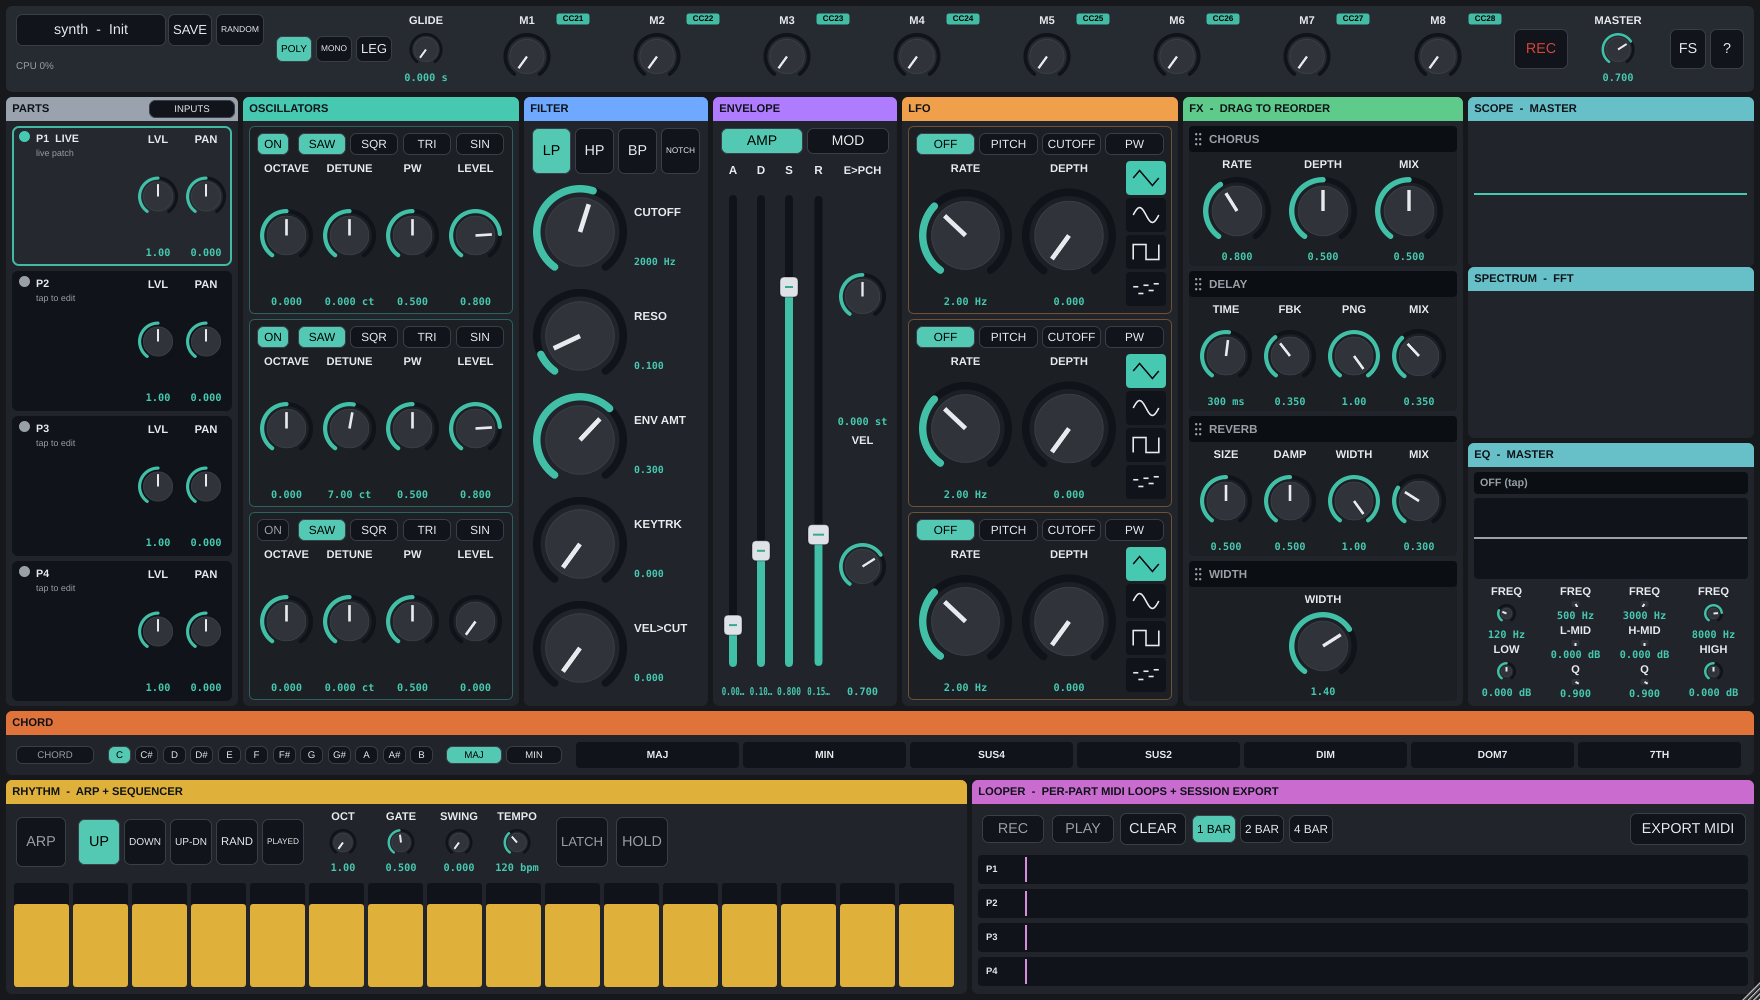
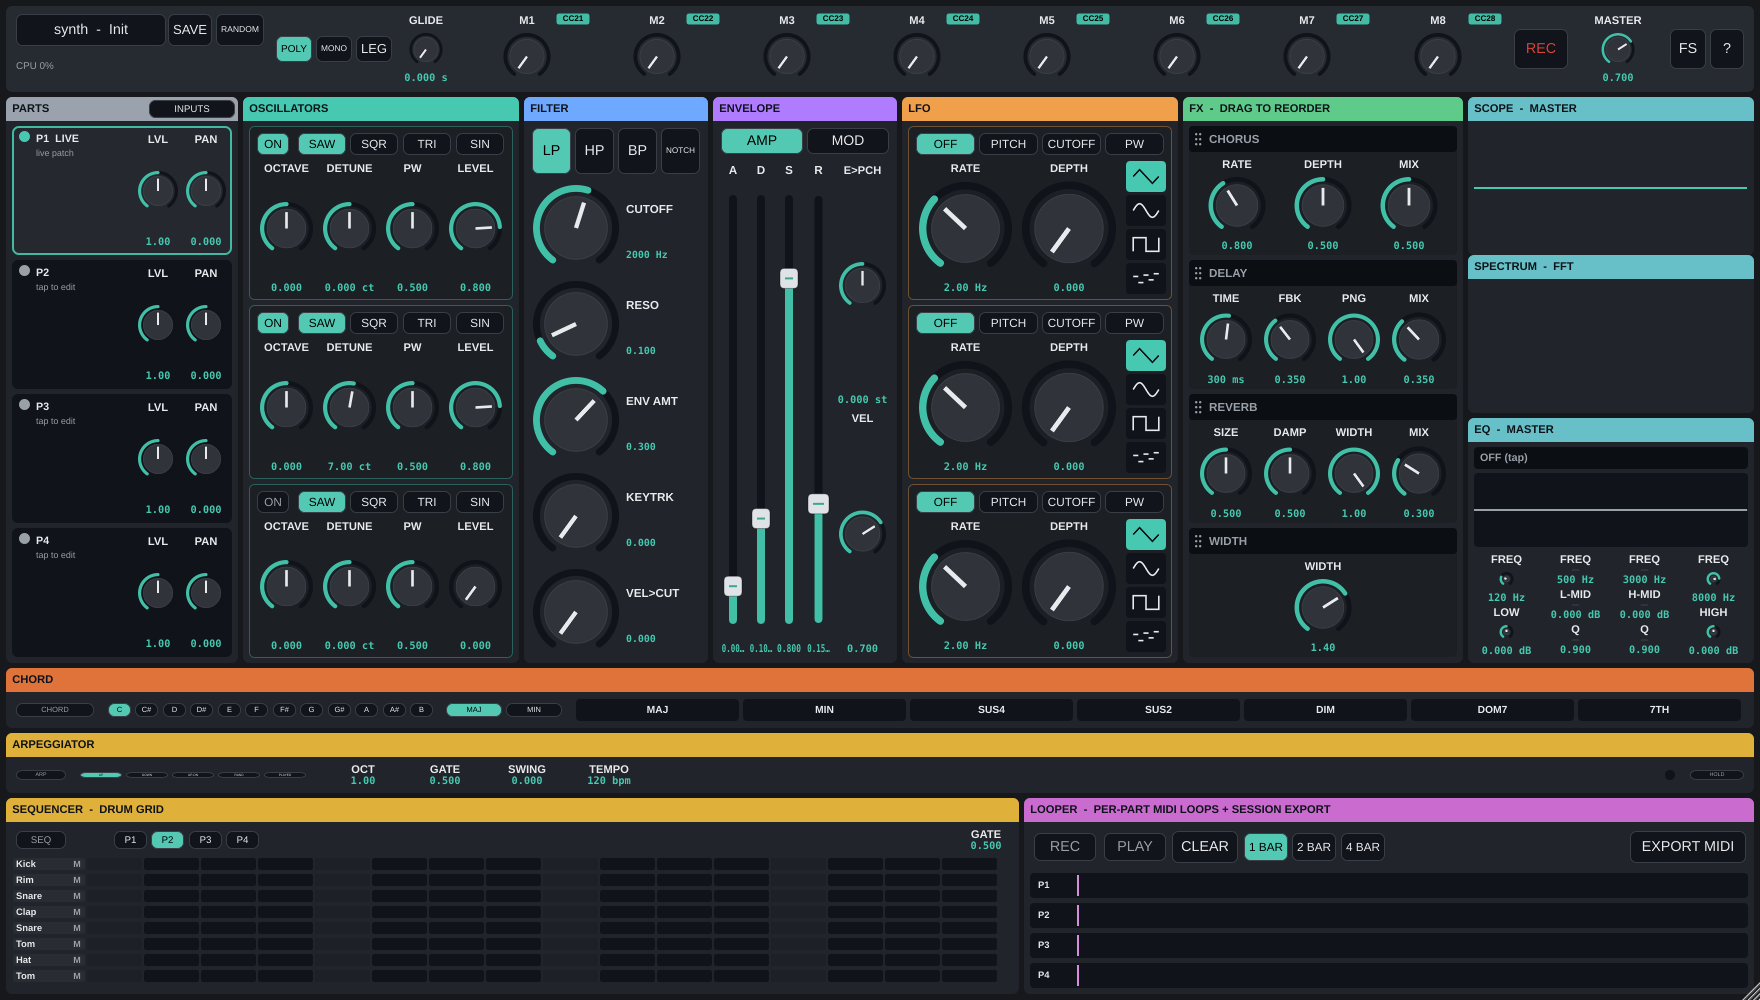
R3 Group 2 (UI): compact ARP bar + 8-row step-sequencer grid + layout
Completes Group 2: the sequencer core (4454964) now has its front panel, and
the bottom workstation matches the signed-off demo — CHORD, a compact ARP bar,
then the SEQUENCER (left) beside the LOOPER (right).

- New Source/UI/SeqPanel.h: 8-row x 16-step drum grid bound to the processor's
  seq state. Per row: a tap-to-pick trigger note (GM drum names) + a mute; per
  step a tap/drag cycle off -> on -> ACCENT; header carries SEQ on/off, the
  target part (P1-P4) and gate. Playhead column tracks the running step. Refuses
  keyboard focus like every panel.
- BottomZones: RhythmPanel (the old 16-step arp grid) becomes a compact ArpBar —
  ARP toggle, mode, OCT/GATE/SWING/TEMPO on the shared clock, a beat dot, and a
  single HOLD (LATCH was merged into HOLD in Group 2; the step grid moved to the
  SEQ). Layout reworked to CHORD -> ArpBar -> [SeqPanel | LooperPanel]; the band
  grows ~43px and the centre synth section flows shorter to fit (2.3).
- arpSteps/arpLatch params kept for state round-trip; the UI just no longer
  exposes them. No note-path change: the SEQ engine + its dense-8-row click
  torture already landed in 4454964.

Gate: run-all-checks 252/252 + pluginval s8 green; --sanitize ASan+UBSan soak
clean (UBSan RSS growth 0%). docs/editor.png regenerated.

diff --git a/Source/UI/BottomZones.h b/Source/UI/BottomZones.h
@@ -3,15 +3,17 @@
 #include "VASynthLookAndFeel.h"
 #include "PanelChrome.h"
 #include "Widgets.h"
+#include "SeqPanel.h"
 #include "../PluginProcessor.h"
 #include "../DSP/ChordEngine.h"
 
 // ============================================================================
-// Bottom workstation: a horizontal CHORD bar (enable / root / scale + the seven
-// momentary, MIDI-learnable modifier chips) and two collapsible zones — RHYTHM
-// (arp + sequencer) and LOOPER (per-part MIDI loops + export). The rhythm/looper
-// ENGINES arrive in R3; here they are collapsed-by-default placeholders that
-// expand to preview their planned home. Refuses keyboard focus.
+// Bottom workstation (R3 Group 2 layout): a horizontal CHORD bar (enable / root /
+// scale + the seven momentary, MIDI-learnable modifier chips), a compact ARP bar
+// (toggle / mode / OCT-GATE-SWING-TEMPO / HOLD, sharing the one transport clock),
+// and, below, the 8-row step SEQUENCER (left) beside the per-part LOOPER (right).
+// The arp and sequencer are decoupled: the arp reorders held notes; the sequencer
+// runs its own drum grid into a selectable part. Refuses keyboard focus.
 // ============================================================================
 
 // ---- horizontal chord bar --------------------------------------------------
@@ -117,12 +119,15 @@ private:
     JUCE_DECLARE_NON_COPYABLE_WITH_LEAK_DETECTOR (ChordBar)
 };
 
-// ---- RHYTHM: functional arpeggiator + editable 16-step sequencer ------------
-class RhythmPanel : public juce::Component,
-                    private juce::Timer
+// ---- ARP: compact arpeggiator bar (decoupled from the step sequencer) -------
+// One row of controls; no step grid (the arp reorders held notes, it doesn't paint a
+// pattern). HOLD is the single latch source (LATCH was merged into HOLD in Group 2).
+// OCT/GATE/SWING/TEMPO drive the shared transport clock the sequencer also rides.
+class ArpBar : public juce::Component,
+               private juce::Timer
 {
 public:
-    explicit RhythmPanel (VASynthProcessor& p) : proc (p)
+    explicit ArpBar (VASynthProcessor& p) : proc (p)
     {
         setWantsKeyboardFocus (false);
         arpOn = std::make_unique<PowerToggle> (p.apvts, ParamID::arpOn, "ARP");
@@ -132,78 +137,51 @@ public:
         gate  = std::make_unique<RotaryKnob> (p.apvts, ParamID::arpGate,    "GATE",  p.getMidiLearn());
         swing = std::make_unique<RotaryKnob> (p.apvts, ParamID::arpSwing,   "SWING", p.getMidiLearn());
         tempo = std::make_unique<RotaryKnob> (p.apvts, ParamID::tempo,      "TEMPO", p.getMidiLearn());
-        latch = std::make_unique<PowerToggle> (p.apvts, ParamID::arpLatch, "LATCH");
         hold  = std::make_unique<PowerToggle> (p.apvts, ParamID::arpHold,  "HOLD");
         addAndMakeVisible (*arpOn); addAndMakeVisible (*mode);
         addAndMakeVisible (*oct);   addAndMakeVisible (*gate);
         addAndMakeVisible (*swing); addAndMakeVisible (*tempo);
-        addAndMakeVisible (*latch); addAndMakeVisible (*hold);
-        startTimerHz (20);   // playhead + reflect external step changes
+        addAndMakeVisible (*hold);
+        startTimerHz (12);   // pulse the beat dot with the transport
     }
 
     void paint (juce::Graphics& g) override
     {
         const auto tRhy = juce::Colour (0xffe0b13a);
-        chrome::section (g, getLocalBounds(), "Rhythm  -  arp + sequencer", tRhy);
-
-        const int play = proc.arpDisplayStep();
-        const int cells = VASynthProcessor::kArpSteps;
-        const int cw = juce::jmax (1, gridArea.getWidth() / cells);
-        for (int s = 0; s < cells; ++s)
+        chrome::section (g, getLocalBounds(), "Arpeggiator", tRhy);
+        // a small beat indicator that blinks on the downbeat of the shared clock
+        const int step = proc.arpDisplayStep();
+        auto dot = beatDot.toFloat();
+        if (! dot.isEmpty())
         {
-            auto cell = juce::Rectangle<int> (gridArea.getX() + s * cw, gridArea.getY(), cw, gridArea.getHeight()).reduced (2);
-            g.setColour (VASynthLookAndFeel::track());
-            g.fillRoundedRectangle (cell.toFloat(), 3.0f);
-            const float v = proc.getArpStep (s);
-            if (v > 0.001f)
-            {
-                auto bar = cell.removeFromBottom (juce::roundToInt (cell.getHeight() * v));
-                g.setColour ((s == play) ? tRhy.brighter (0.3f) : tRhy);
-                g.fillRoundedRectangle (bar.toFloat(), 3.0f);
-            }
-            if (s == play) { g.setColour (VASynthLookAndFeel::ink().withAlpha (0.85f)); g.drawRoundedRectangle (cell.toFloat(), 3.0f, 1.5f); }
+            const bool on = proc.apvts.getRawParameterValue (ParamID::arpOn)->load() > 0.5f && (step % 4 == 0);
+            g.setColour (on ? tRhy.brighter (0.3f) : VASynthLookAndFeel::track());
+            g.fillEllipse (dot);
         }
     }
 
     void resized() override
     {
         auto c = chrome::sectionContent (getLocalBounds());
-        auto row = c.removeFromTop (juce::jmin (66, c.getHeight() / 2)); c.removeFromTop (6);
-        arpOn->setBounds (row.removeFromLeft (58).reduced (2, 6)); row.removeFromLeft (6);
-        mode->setBounds  (row.removeFromLeft (juce::jmin (230, row.getWidth() / 2)).reduced (0, 8)); row.removeFromLeft (8);
+        auto row = c;
+        arpOn->setBounds (row.removeFromLeft (58).reduced (2, 6)); row.removeFromLeft (8);
+        mode->setBounds  (row.removeFromLeft (juce::jmin (230, row.getWidth() / 2)).reduced (0, 8)); row.removeFromLeft (16);
+        hold->setBounds  (row.removeFromRight (62).reduced (2, 6)); row.removeFromRight (8);
+        beatDot = row.removeFromRight (16).withSizeKeepingCentre (10, 10); row.removeFromRight (8);
         for (RotaryKnob* k : { oct.get(), gate.get(), swing.get(), tempo.get() })
-            k->setBounds (row.removeFromLeft (juce::jmin (58, row.getWidth() / 4)));
-        row.removeFromLeft (6);
-        latch->setBounds (row.removeFromLeft (60).reduced (2, 6));
-        hold->setBounds  (row.removeFromLeft (60).reduced (2, 6));
-        gridArea = c;
+            { k->setBounds (row.removeFromLeft (juce::jmin (78, row.getWidth() / 4))); row.removeFromLeft (4); }
     }
-
-    void mouseDown (const juce::MouseEvent& e) override { paintStep (e); }
-    void mouseDrag (const juce::MouseEvent& e) override { paintStep (e); }
 
 private:
-    void paintStep (const juce::MouseEvent& e)
-    {
-        if (! gridArea.contains (e.getPosition())) return;
-        const int cells = VASynthProcessor::kArpSteps;
-        const int cw = juce::jmax (1, gridArea.getWidth() / cells);
-        const int s = juce::jlimit (0, cells - 1, (e.getPosition().x - gridArea.getX()) / cw);
-        float v = 1.0f - (float) (e.getPosition().y - gridArea.getY()) / juce::jmax (1, gridArea.getHeight());
-        v = juce::jlimit (0.0f, 1.0f, v);
-        if (v < 0.06f) v = 0.0f;                 // snap the bottom to a rest
-        proc.setArpStep (s, v);
-        repaint();
-    }
     void timerCallback() override { repaint(); }
 
     VASynthProcessor& proc;
-    std::unique_ptr<PowerToggle> arpOn, latch, hold;
+    std::unique_ptr<PowerToggle> arpOn, hold;
     std::unique_ptr<HSelector> mode;
     std::unique_ptr<RotaryKnob> oct, gate, swing, tempo;
-    juce::Rectangle<int> gridArea;
+    juce::Rectangle<int> beatDot;
 
-    JUCE_DECLARE_NON_COPYABLE_WITH_LEAK_DETECTOR (RhythmPanel)
+    JUCE_DECLARE_NON_COPYABLE_WITH_LEAK_DETECTOR (ArpBar)
 };
 
 // ---- LOOPER: functional per-part MIDI looper + MIDI export ------------------
@@ -309,30 +287,34 @@ private:
 class BottomZones : public juce::Component
 {
 public:
-    explicit BottomZones (VASynthProcessor& p) : chord (p), rhythm (p), looper (p)
+    explicit BottomZones (VASynthProcessor& p) : chord (p), arp (p), seq (p), looper (p)
     {
         setWantsKeyboardFocus (false);
         addAndMakeVisible (chord);
-        addAndMakeVisible (rhythm);
+        addAndMakeVisible (arp);
+        addAndMakeVisible (seq);
         addAndMakeVisible (looper);
     }
 
-    // Editor calls this to size the bottom band (fixed: chord bar + workstation).
-    int preferredHeight() const { return kChordH + gap + kWorkH; }
+    // Editor calls this to size the bottom band: chord bar + arp bar + [seq | looper].
+    int preferredHeight() const { return kChordH + gap + kArpH + gap + kGridH; }
     std::function<void()> onResizeNeeded;   // kept for API compatibility (unused now)
 
     void resized() override
     {
         auto r = getLocalBounds();
         chord.setBounds (r.removeFromTop (kChordH)); r.removeFromTop (gap);
-        rhythm.setBounds (r.removeFromLeft (r.getWidth() * 55 / 100)); r.removeFromLeft (gap);
+        arp.setBounds   (r.removeFromTop (kArpH));   r.removeFromTop (gap);
+        // 8-row sequencer needs the width; the looper takes the remainder on the right.
+        seq.setBounds   (r.removeFromLeft (r.getWidth() * 58 / 100)); r.removeFromLeft (gap);
         looper.setBounds (r);
     }
 
 private:
-    static constexpr int kChordH = 64, kWorkH = 214, gap = 5;
+    static constexpr int kChordH = 60, kArpH = 60, kGridH = 196, gap = 5;
     ChordBar chord;
-    RhythmPanel rhythm;
+    ArpBar arp;
+    SeqPanel seq;
     LooperPanel looper;
 
     JUCE_DECLARE_NON_COPYABLE_WITH_LEAK_DETECTOR (BottomZones)

diff --git a/Source/UI/SeqPanel.h b/Source/UI/SeqPanel.h
@@ -1,0 +1,152 @@
+#pragma once
+#include <juce_audio_processors/juce_audio_processors.h>
+#include "VASynthLookAndFeel.h"
+#include "PanelChrome.h"
+#include "Widgets.h"
+#include "../PluginProcessor.h"
+
+// ============================================================================
+// STEP SEQUENCER panel (R3 Group 2): an 8-row x 16-step drum grid. Header carries the
+// SEQ on/off, the target part (P1-P4) and gate. Each row shows its trigger note (tap to
+// pick) + a mute; each step is tap-cycled off -> on -> ACCENT -> off. A playhead column
+// tracks the running step. The pattern lives in the processor state (saved with presets/
+// MULTIs). Refuses keyboard focus.
+// ============================================================================
+
+class SeqPanel : public juce::Component,
+                 private juce::Timer
+{
+public:
+    explicit SeqPanel (VASynthProcessor& p) : proc (p)
+    {
+        setWantsKeyboardFocus (false);
+        on     = std::make_unique<PowerToggle> (p.apvts, ParamID::seqOn, "SEQ");
+        target = std::make_unique<HSelector> (p.apvts, ParamID::seqTarget, p.getMidiLearn(),
+                                              juce::StringArray { "P1", "P2", "P3", "P4" });
+        gate   = std::make_unique<RotaryKnob> (p.apvts, ParamID::seqGate, "GATE", p.getMidiLearn());
+        addAndMakeVisible (*on); addAndMakeVisible (*target); addAndMakeVisible (*gate);
+        startTimerHz (20);   // playhead
+    }
+
+    void paint (juce::Graphics& g) override
+    {
+        chrome::section (g, getLocalBounds(), "Sequencer  -  drum grid", juce::Colour (0xffe0b13a));
+        const auto tRhy = juce::Colour (0xffe0b13a);
+        const int play = proc.seqDisplayStep();
+
+        for (int r = 0; r < VASynthProcessor::kSeqRows; ++r)
+        {
+            auto row = rowRects[(std::size_t) r];
+            if (row.isEmpty()) continue;
+            auto lab = row.removeFromLeft (kLabelW);
+            // trigger-note label + mute
+            const bool muted = proc.getSeqMute (r);
+            g.setColour (muted ? VASynthLookAndFeel::track() : VASynthLookAndFeel::track().brighter (0.12f));
+            g.fillRoundedRectangle (lab.reduced (1).toFloat(), 3.0f);
+            auto muteR = lab.removeFromRight (18);
+            g.setColour (muted ? juce::Colour (0xffd8443a) : VASynthLookAndFeel::dim());
+            g.setFont (juce::Font (juce::FontOptions (10.0f, juce::Font::bold)));
+            g.drawText ("M", muteR, juce::Justification::centred, false);
+            g.setColour (muted ? VASynthLookAndFeel::dim() : VASynthLookAndFeel::ink());
+            g.setFont (juce::Font (juce::FontOptions (10.5f, juce::Font::bold)));
+            g.drawText (noteLabel (proc.getSeqNote (r)), lab.reduced (4, 0), juce::Justification::centredLeft, false);
+
+            // 16 step cells
+            const int cw = juce::jmax (1, row.getWidth() / VASynthProcessor::kSeqSteps);
+            for (int s = 0; s < VASynthProcessor::kSeqSteps; ++s)
+            {
+                auto cell = juce::Rectangle<int> (row.getX() + s * cw, row.getY(), cw, row.getHeight()).reduced (1);
+                const unsigned char v = proc.getSeqCell (r, s);
+                juce::Colour c = (v == 2) ? tRhy.brighter (0.35f) : (v == 1) ? tRhy : VASynthLookAndFeel::track();
+                if (s % 4 == 0 && v == 0) c = VASynthLookAndFeel::track().brighter (0.06f);   // beat guides
+                g.setColour (muted && v > 0 ? c.withAlpha (0.4f) : c);
+                g.fillRoundedRectangle (cell.toFloat(), 2.5f);
+                if (s == play) { g.setColour (VASynthLookAndFeel::ink().withAlpha (0.7f)); g.drawRoundedRectangle (cell.toFloat(), 2.5f, 1.2f); }
+            }
+        }
+    }
+
+    void resized() override
+    {
+        auto c = chrome::sectionContent (getLocalBounds());
+        auto head = c.removeFromTop (26); c.removeFromTop (4);
+        on->setBounds (head.removeFromLeft (58).reduced (2, 2)); head.removeFromLeft (6);
+        head.removeFromLeft (36);   // "TARGET" gap
+        target->setBounds (head.removeFromLeft (150).reduced (0, 2)); head.removeFromLeft (8);
+        gate->setBounds (head.removeFromRight (54));
+
+        const int n = VASynthProcessor::kSeqRows, gap = 2;
+        const int rh = juce::jmax (10, (c.getHeight() - (n - 1) * gap) / n);
+        for (int r = 0; r < n; ++r) { rowRects[(std::size_t) r] = c.removeFromTop (rh); c.removeFromTop (gap); }
+    }
+
+    void mouseDown (const juce::MouseEvent& e) override { hit (e); }
+    void mouseDrag (const juce::MouseEvent& e) override { if (dragPaint) paintDrag (e); }
+
+private:
+    void hit (const juce::MouseEvent& e)
+    {
+        for (int r = 0; r < VASynthProcessor::kSeqRows; ++r)
+        {
+            auto row = rowRects[(std::size_t) r];
+            if (! row.contains (e.getPosition())) continue;
+            auto lab = row.removeFromLeft (kLabelW);
+            if (lab.removeFromRight (18).contains (e.getPosition())) { proc.setSeqMute (r, ! proc.getSeqMute (r)); repaint(); return; }
+            if (lab.contains (e.getPosition())) { showNoteMenu (r); return; }
+            const int cw = juce::jmax (1, row.getWidth() / VASynthProcessor::kSeqSteps);
+            const int s = juce::jlimit (0, VASynthProcessor::kSeqSteps - 1, (e.getPosition().x - row.getX()) / cw);
+            const unsigned char v = proc.getSeqCell (r, s);
+            proc.setSeqCell (r, s, (unsigned char) ((v + 1) % 3));   // off -> on -> accent -> off
+            dragPaint = true; dragVal = (unsigned char) ((v + 1) % 3);
+            repaint(); return;
+        }
+    }
+    void paintDrag (const juce::MouseEvent& e)
+    {
+        for (int r = 0; r < VASynthProcessor::kSeqRows; ++r)
+        {
+            auto row = rowRects[(std::size_t) r];
+            if (! row.contains (e.getPosition())) continue;
+            row.removeFromLeft (kLabelW);
+            if (! row.contains (e.getPosition())) return;
+            const int cw = juce::jmax (1, row.getWidth() / VASynthProcessor::kSeqSteps);
+            const int s = juce::jlimit (0, VASynthProcessor::kSeqSteps - 1, (e.getPosition().x - row.getX()) / cw);
+            if (proc.getSeqCell (r, s) != dragVal) { proc.setSeqCell (r, s, dragVal); repaint(); }
+            return;
+        }
+    }
+    void mouseUp (const juce::MouseEvent&) override { dragPaint = false; }
+
+    void showNoteMenu (int row)
+    {
+        juce::PopupMenu m;
+        for (int n = 35; n <= 51; ++n) m.addItem (n, noteLabel (n) + "  (" + juce::String (n) + ")", true, n == proc.getSeqNote (row));
+        m.showMenuAsync (juce::PopupMenu::Options().withTargetComponent (this),
+                         [this, row] (int r) { if (r > 0) { proc.setSeqNote (row, r); repaint(); } });
+    }
+
+    static juce::String noteLabel (int note)
+    {
+        switch (note)   // common GM drum map for the default 808 range
+        {
+            case 35: case 36: return "Kick";
+            case 37: return "Rim";  case 38: case 40: return "Snare";
+            case 39: return "Clap"; case 41: case 43: case 45: return "Tom";
+            case 42: return "Hat";  case 44: return "Pedal";  case 46: return "OpHat";
+            case 49: return "Crash"; case 51: return "Ride";
+            default: return juce::String (note);
+        }
+    }
+    void timerCallback() override { repaint(); }
+
+    VASynthProcessor& proc;
+    std::unique_ptr<PowerToggle> on;
+    std::unique_ptr<HSelector> target;
+    std::unique_ptr<RotaryKnob> gate;
+    std::array<juce::Rectangle<int>, VASynthProcessor::kSeqRows> rowRects { };
+    bool dragPaint = false;
+    unsigned char dragVal = 0;
+    static constexpr int kLabelW = 74;
+
+    JUCE_DECLARE_NON_COPYABLE_WITH_LEAK_DETECTOR (SeqPanel)
+};
